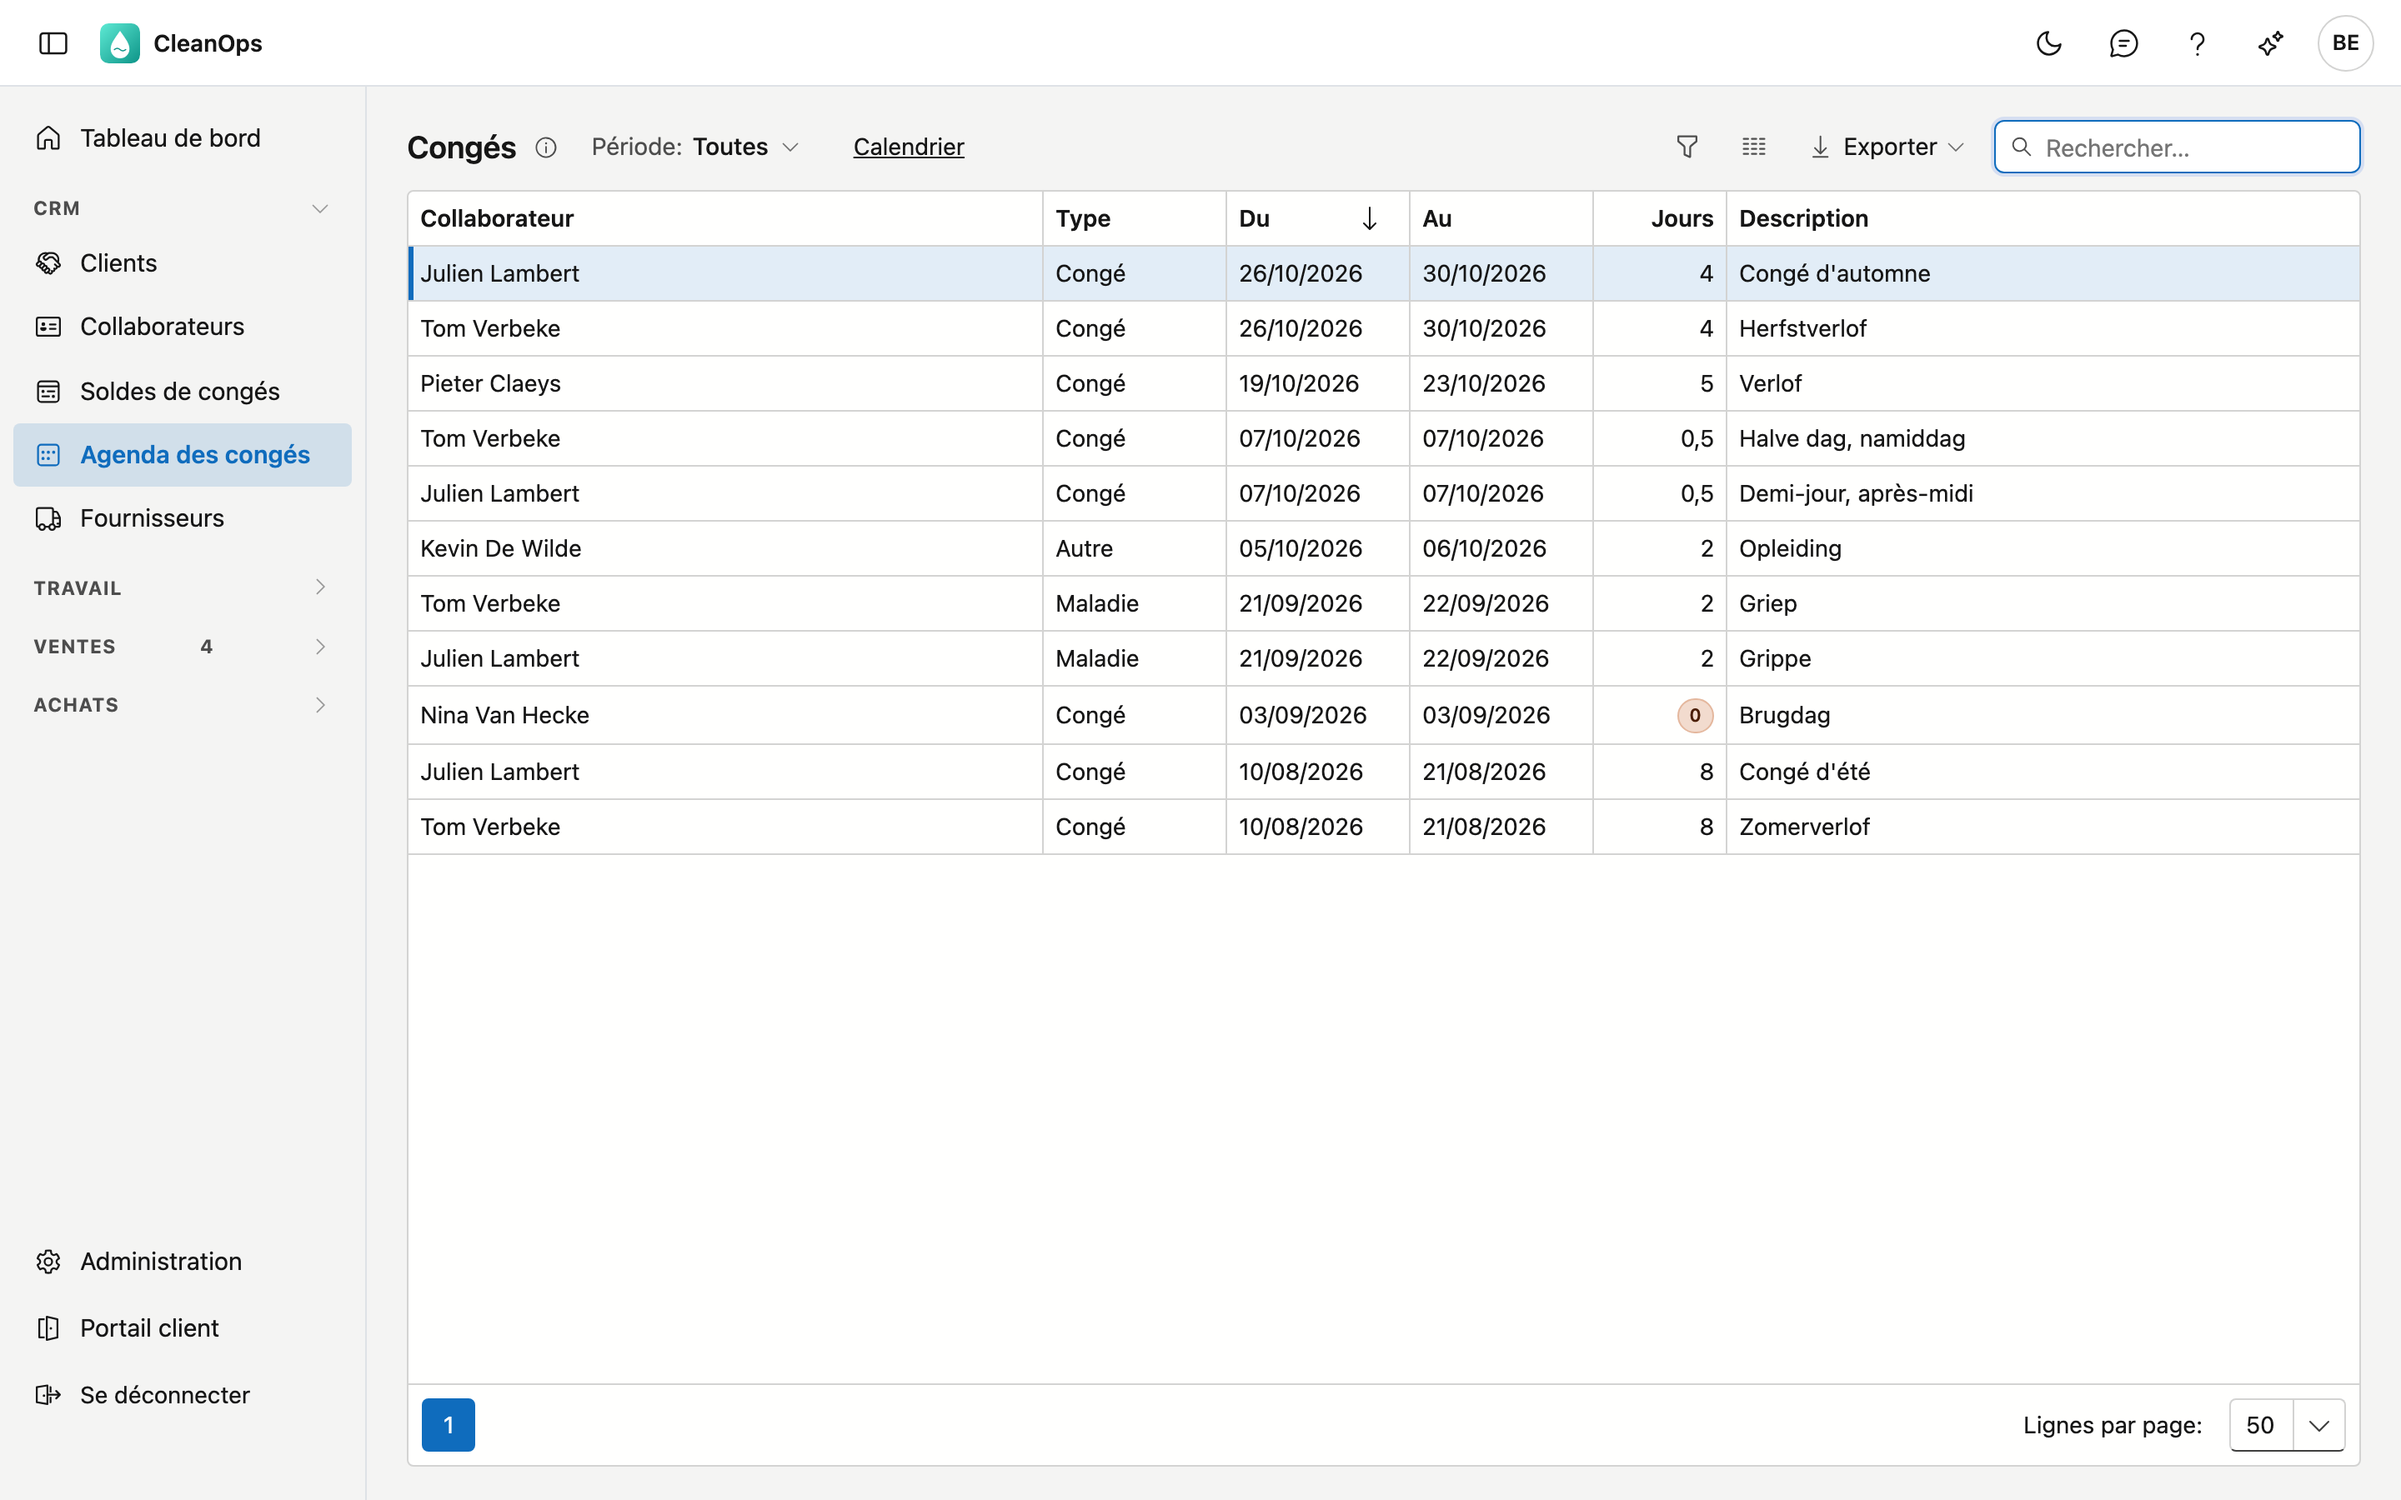
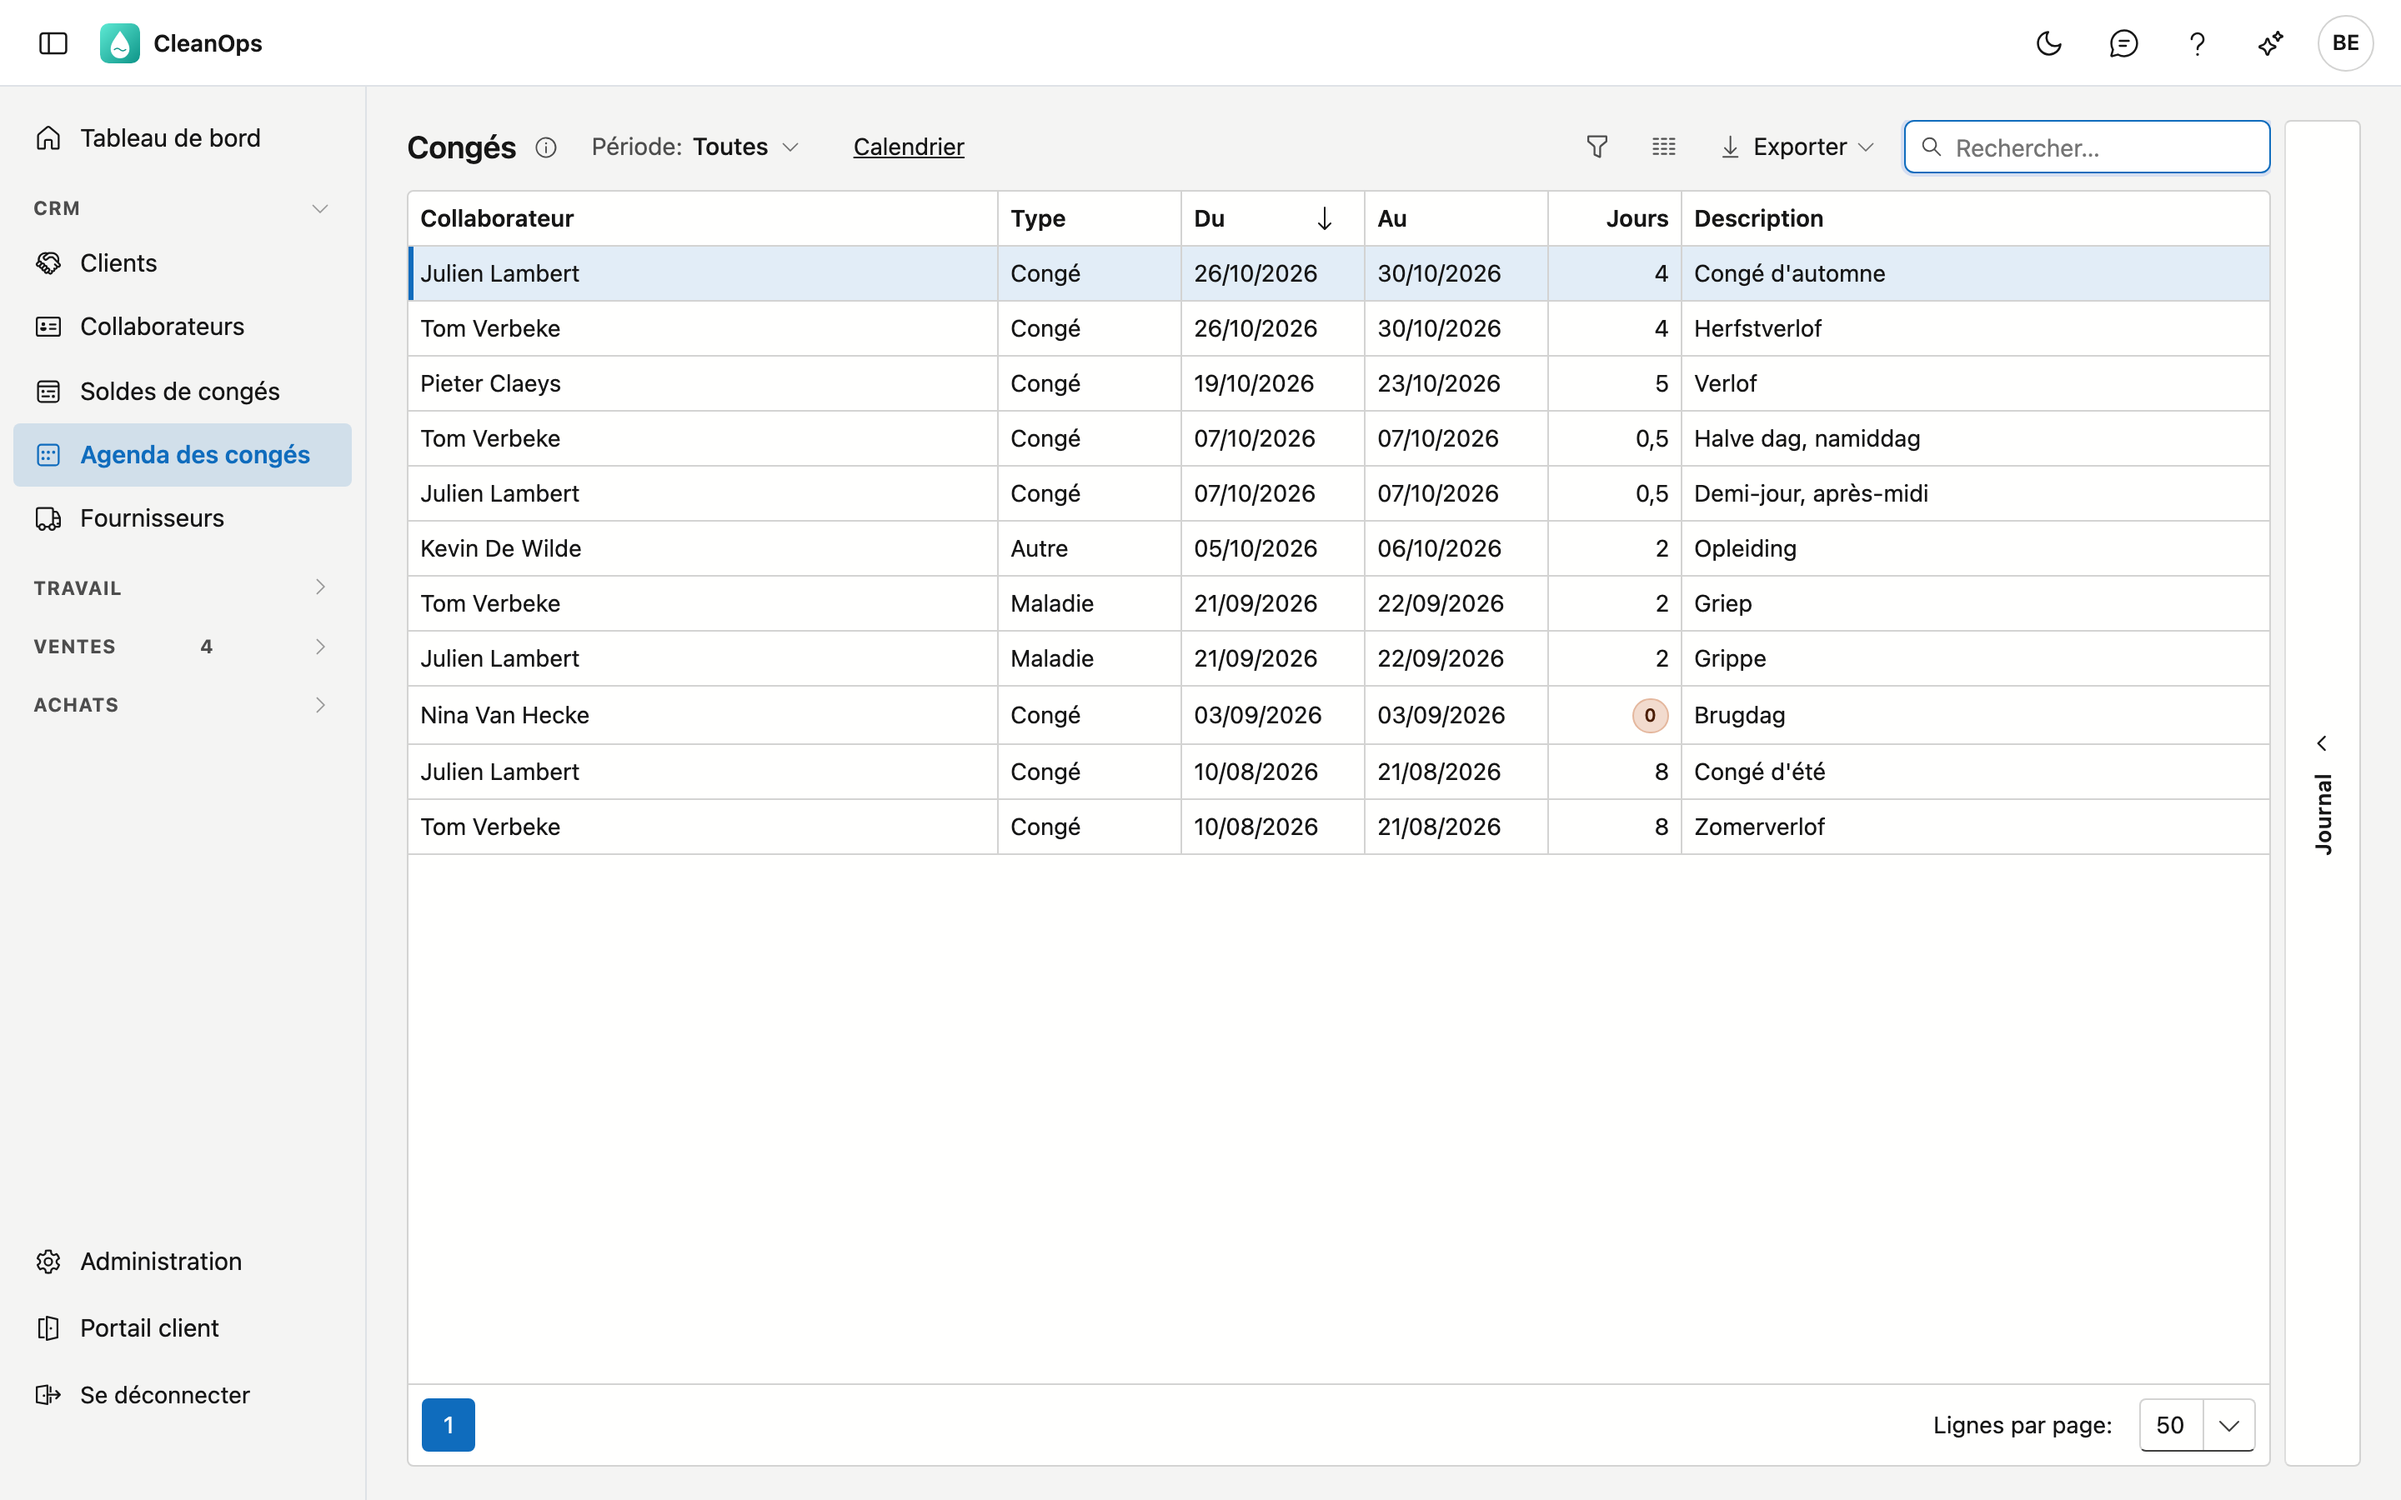
Verlofkalender: het beeld van de lijst toont de strook Journaal
Het beeld dateerde van vóór de strook (Q3-12, 10/10/2026) en toonde de lijst zonder. Opnieuw gemaakt uit de
demo-tenant met tools/beelden.mjs (NL + FR), en de beschrijving van het beeld noemt de strook nu ook.

diff --git a/docs/verlofkalender.fr.md b/docs/verlofkalender.fr.md
@@ -44,7 +44,7 @@ une description et enregistrez. CleanOps compte les jours de congé selon le ré
 Cliquez sur **Vue liste** pour toutes les périodes de congé l'une sous l'autre : collaborateur, type, du, au, jours et
 description.
 
-![La liste Congés de la démo avec les périodes, le filtre Période, et un congé à 0 jour avec un avertissement](images/verlofkalender-lijst-fr.png "Congés")
+![La liste Congés de la démo avec les périodes, le filtre Période, un congé à 0 jour avec un avertissement, et à droite le volet Journal](images/verlofkalender-lijst-fr.png "Congés")
 
 - Choisissez une **Période** en haut : la liste montre les congés qui touchent cette période.
 - **Rechercher**, **trier** et **exporter** fonctionnent comme dans les autres listes.

diff --git a/docs/verlofkalender.md b/docs/verlofkalender.md
@@ -41,7 +41,7 @@ in en klik op **Bewaren**. CleanOps telt de verlofdagen volgens het werkregime e
 
 Klik op **Lijstweergave** voor alle verlofperiodes onder elkaar: medewerker, soort, van, tot, dagen en omschrijving.
 
-![De lijst Verlof van de demo met de periodes, de filter Periode, en een verlof op 0 dagen met een waarschuwing](images/verlofkalender-lijst.png "Verlof")
+![De lijst Verlof van de demo met de periodes, de filter Periode, een verlof op 0 dagen met een waarschuwing, en rechts de strook Journaal](images/verlofkalender-lijst.png "Verlof")
 
 - Kies bovenaan een **Periode**: de lijst toont het verlof dat die periode raakt.
 - **Zoeken**, **sorteren** en **exporteren** werken zoals in de andere lijsten.
